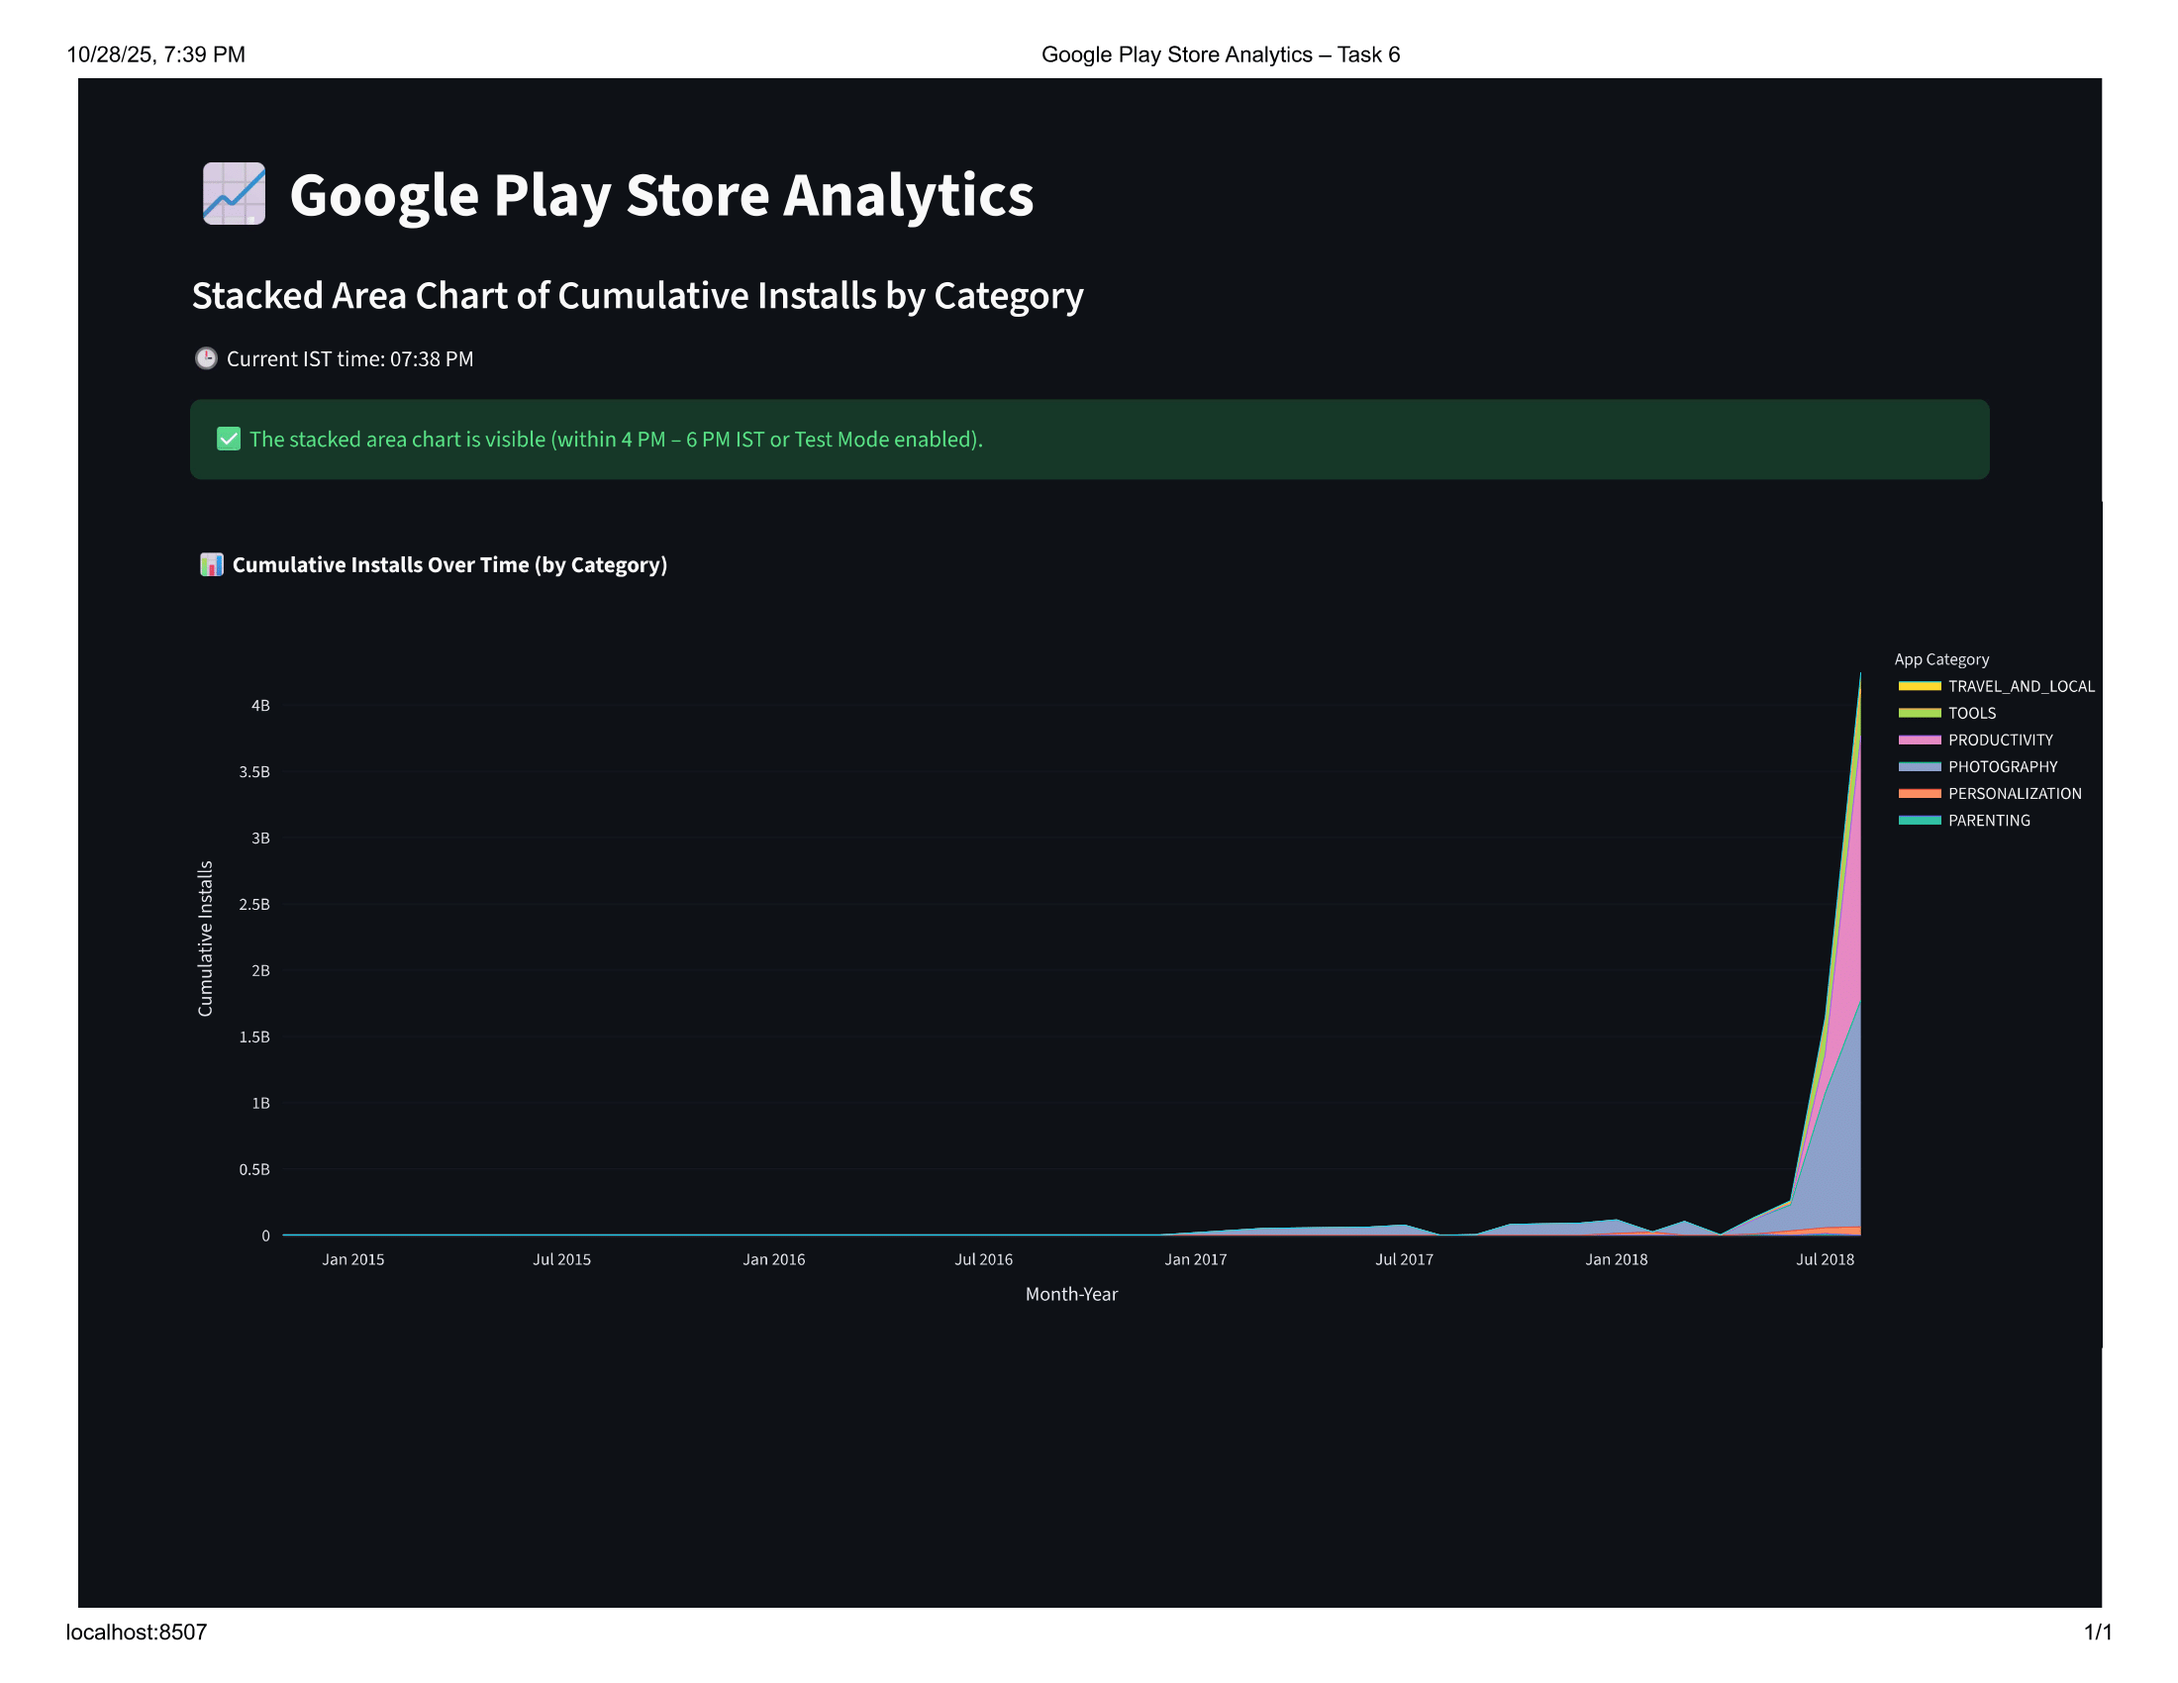
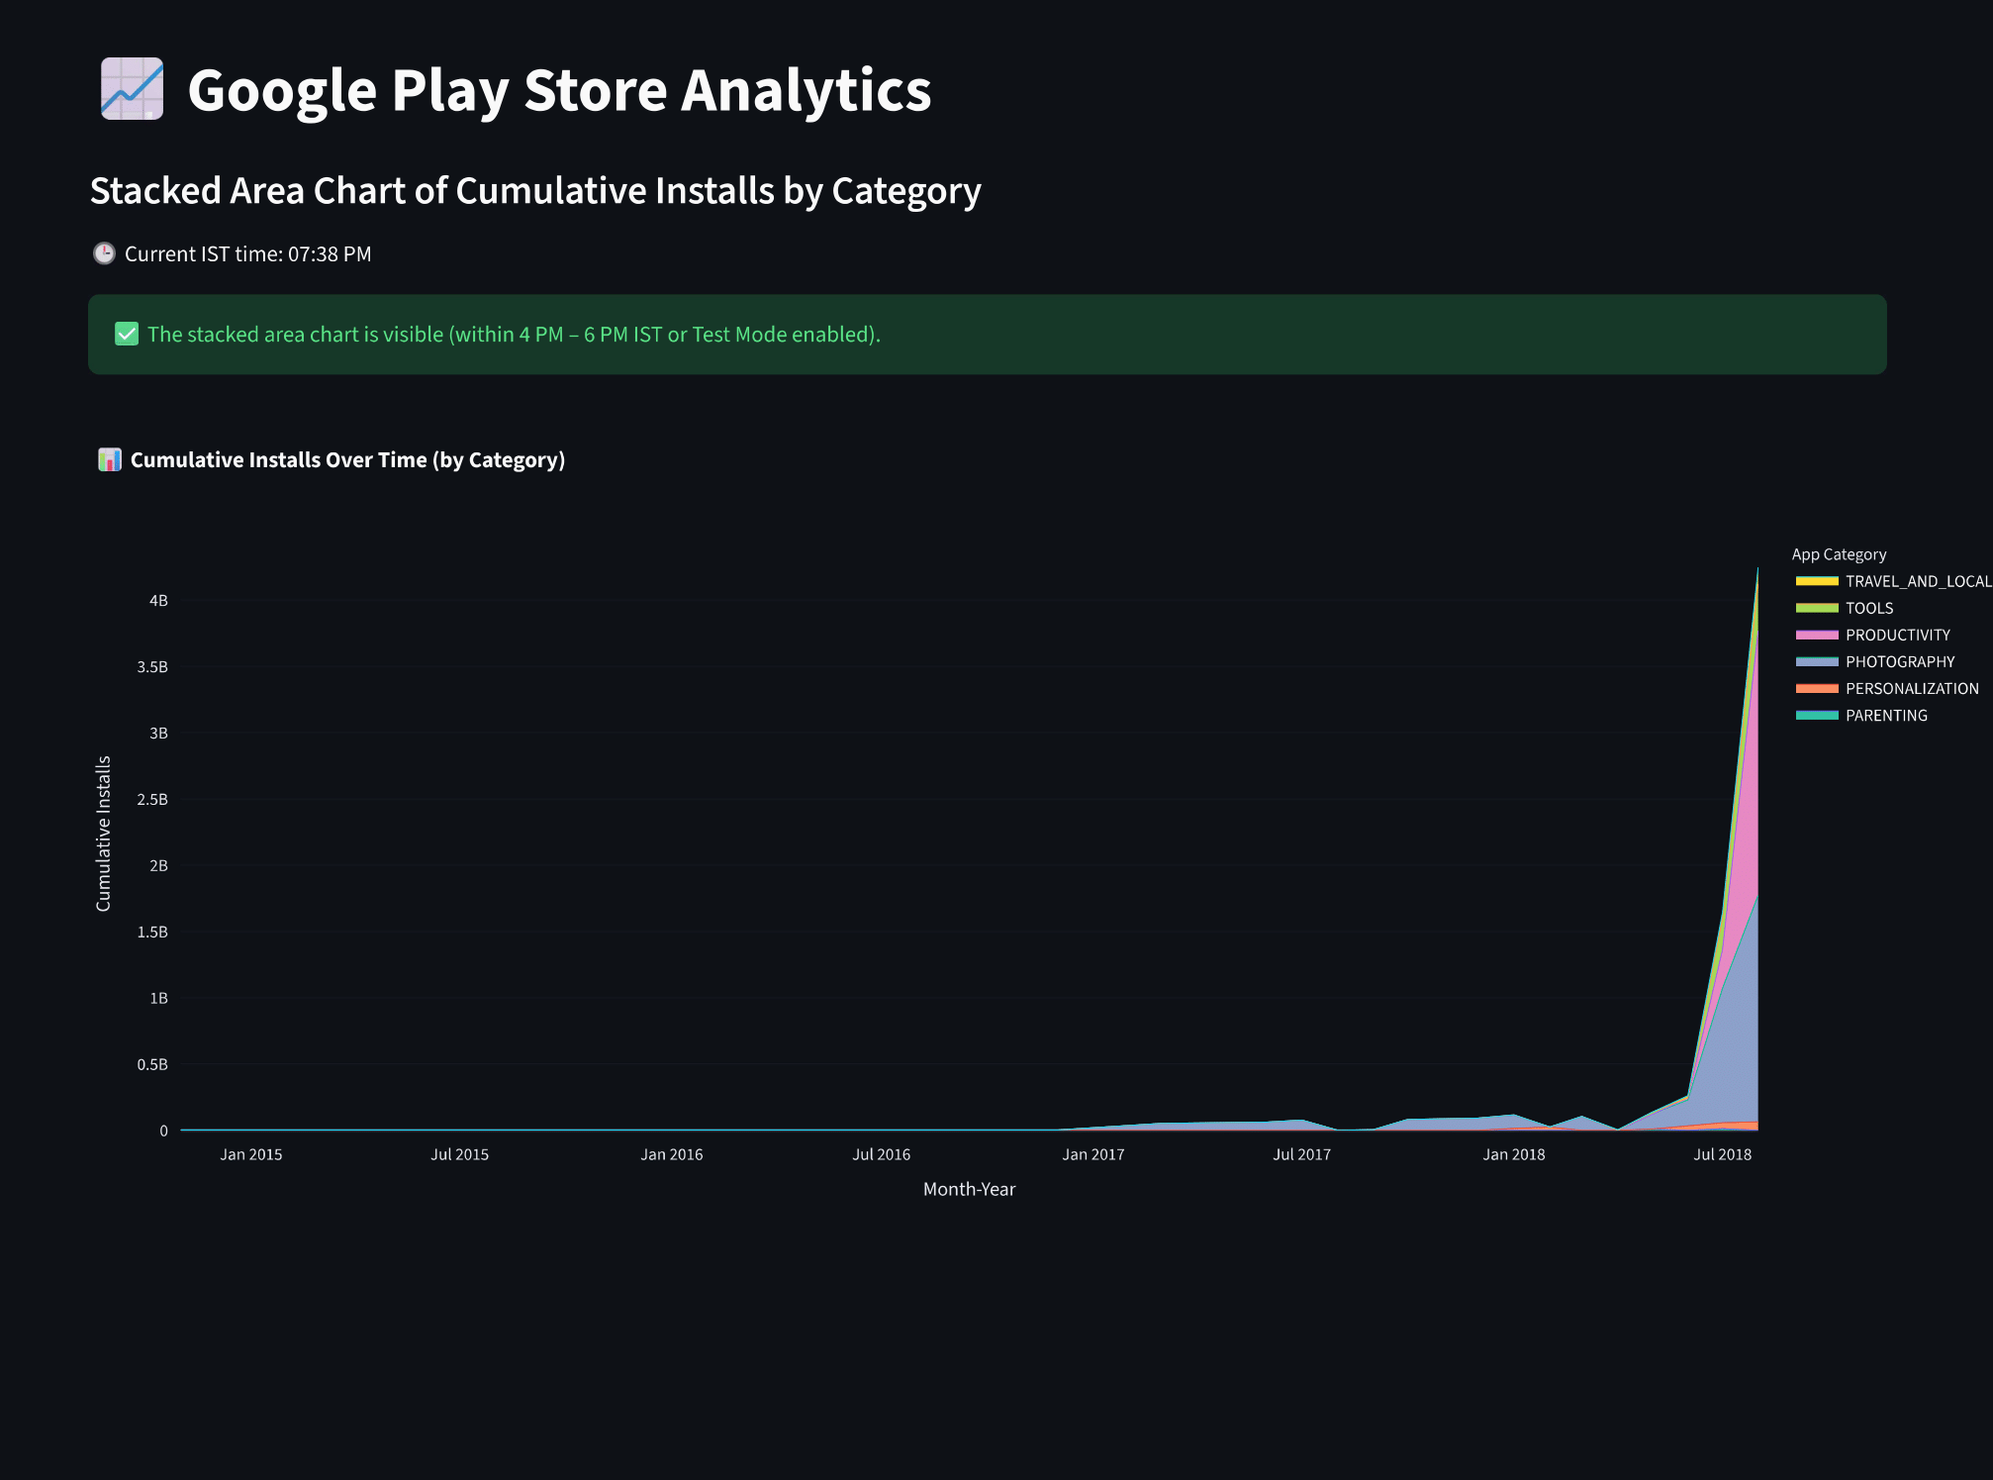
Added Task 6 README and dashboard preview

diff --git a/task 6/readme.md b/task 6/readme.md
@@ -1,4 +1,4 @@
-# 📊 Google Play Store Analytics - Task 6
+# 📊 Google Play Store Analytics 
 
 This project is part of my **Data Analytics Internship**, focusing on **real-world data cleaning, filtering, and visualization** using the **Google Play Store dataset** from Kaggle.  
 **Task 6** involves building a **stacked area chart** to visualize the **cumulative number of installs over time** for each app category, applying multiple data-driven filters and time-based visibility logic.
